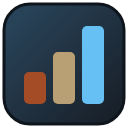
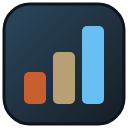
Use Steam's actual negative review color (#c85e2d)
Verified against store.css (.game_review_summary { color: #c85e2d }) and
computed styles on live app pages: Mostly Negative and Overwhelmingly Negative
both render rgb(200, 94, 45). Positive #66c0f4 and mixed #b9a074 confirmed.
Applied to badges, popup gradient, outline and the icon.

Claude-Session: https://claude.ai/code/session_01XUgypwqhmCLDDMovK44enD

Changed region(s): [[0.1875, 0.5625, 0.375, 0.8125]]

diff --git a/src/popup/popup.css b/src/popup/popup.css
@@ -6,7 +6,7 @@
   --accent: #66c0f4;
   --positive: #66c0f4;
   --mixed: #b9a074;
-  --negative: #a34c25;
+  --negative: #c85e2d;
   --steel: #2b3542;
   --steel-dark: #1a212b;
   --steel-light: #3d4a5a;
@@ -109,7 +109,7 @@ body {
 .readout.off .digits { letter-spacing: 2px; }
 .tier.positive { color: var(--positive); text-shadow: 0 0 6px rgba(102,192,244,0.5); }
 .tier.mixed { color: var(--mixed); text-shadow: 0 0 6px rgba(185,160,116,0.5); }
-.tier.negative { color: var(--negative); text-shadow: 0 0 6px rgba(163,76,37,0.6); }
+.tier.negative { color: var(--negative); text-shadow: 0 0 6px rgba(200,94,45,0.6); }
 .tier .sub { color: var(--muted); font-weight: 400; font-size: 10px; margin-left: 5px; }
 .readout.off { opacity: 0.4; }
 

diff --git a/src/content.css b/src/content.css
@@ -2,7 +2,7 @@
 .sro-badge {
   --sro-positive: #66c0f4;
   --sro-mixed: #b9a074;
-  --sro-negative: #a34c25;
+  --sro-negative: #c85e2d;
   --sro-none: #929396;
 
   display: inline-block;
@@ -69,7 +69,7 @@
 /* --sro-hl is set inline per card from the lever gradient; tone attrs are fallbacks */
 [data-sro-highlight="positive"] { --sro-hl: #66c0f4; }
 [data-sro-highlight="mixed"]    { --sro-hl: #b9a074; }
-[data-sro-highlight="negative"] { --sro-hl: #a34c25; }
+[data-sro-highlight="negative"] { --sro-hl: #c85e2d; }
 
 /* ---------- filter: dim ---------- */
 [data-sro-filtered="dim"] {

diff --git a/src/tonecolor.ts b/src/tonecolor.ts
@@ -4,8 +4,8 @@
  *   negative solid up to 20%, mixed at 55% (center of Mixed 40-70), positive solid from 85%.
  */
 export const STOPS: [number, string][] = [
-  [0, '#a34c25'],
-  [20, '#a34c25'],
+  [0, '#c85e2d'],
+  [20, '#c85e2d'],
   [55, '#b9a074'],
   [85, '#66c0f4'],
   [100, '#66c0f4'],

diff --git a/README.md b/README.md
@@ -9,8 +9,10 @@ cards across the Steam store, so you don't have to hover every capsule.
   `/app/<id>`. Dynamically loaded content is picked up via a `MutationObserver`.
 - The badge sits inline right after the price when there is one, otherwise in
   the lower-right corner of the card.
-- Uses Steam's own review colors: positive `#66c0f4`, mixed `#b9a074`,
-  negative `#a34c25`. Each card also gets `data-sro-tone="positive|mixed|negative|none"`
+- Uses Steam's own review colors, taken from the store's stylesheet:
+  positive `#66c0f4`, mixed `#b9a074`, negative `#c85e2d` (Steam uses the same
+  color for every negative tier; there is no darker red for Very or
+  Overwhelmingly Negative), no-score gray `#929396`. Each card also gets `data-sro-tone="positive|mixed|negative|none"`
   and `data-sro-score="0-9"` so future overlays (dimming, hiding, etc.) can hook
   in with plain CSS.
 - Badges read like "Very Positive (83%)": Steam's label plus Steam's exact
